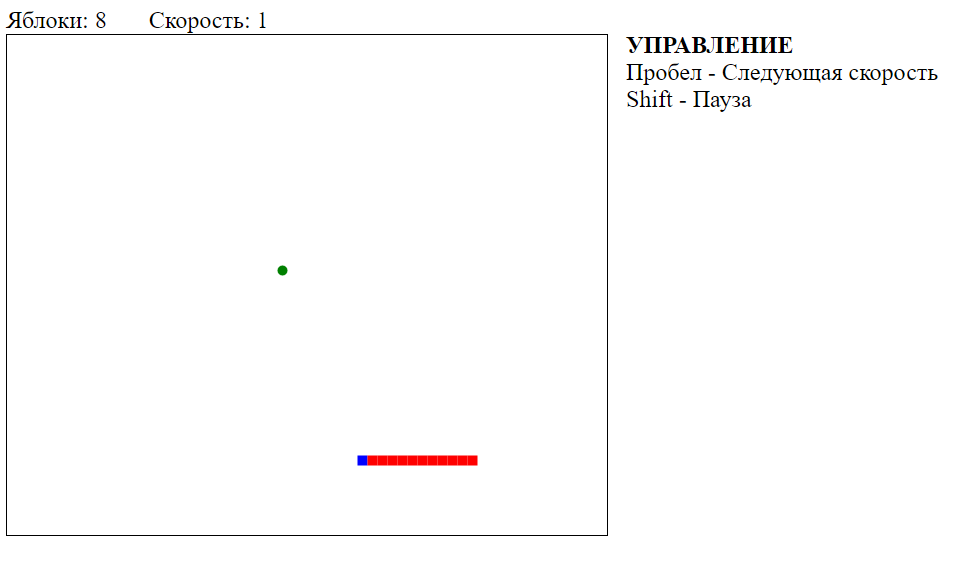
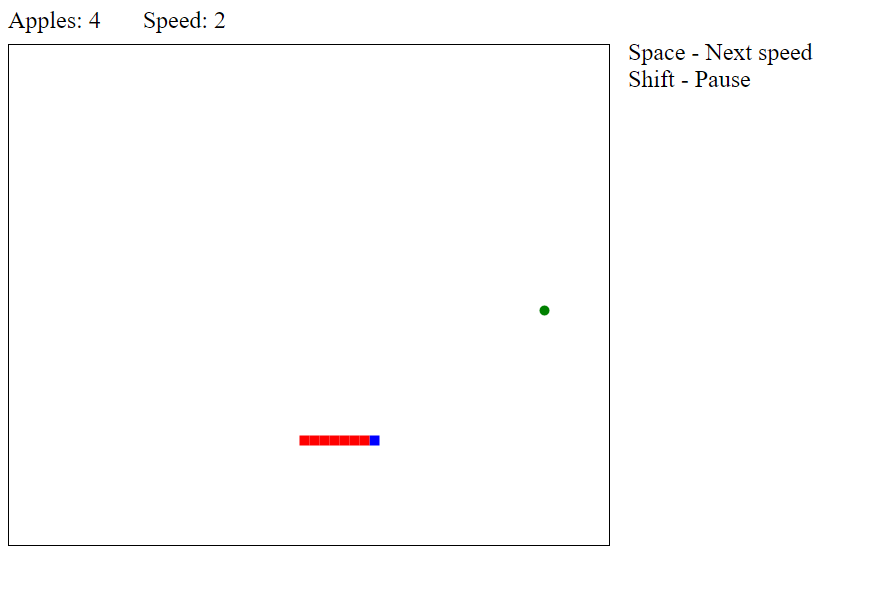
some fixes

diff --git a/js/snakes.GameEngine.js b/js/snakes.GameEngine.js
@@ -28,10 +28,10 @@ snakes.GameEngine = function (canvas, gameInfoElement, endGameCallback) {
 	};
 
 	var renderGameInfo = function () {
-		var text = "Яблоки: " + model.apples;
-		text += "&nbsp;&nbsp;&nbsp;&nbsp;&nbsp;&nbsp;&nbsp;Скорость: " + (speedIndex + 1);
+		var text = "Apples: " + model.apples;
+		text += "&nbsp;&nbsp;&nbsp;&nbsp;&nbsp;&nbsp;&nbsp;Speed: " + (speedIndex + 1);
 		if (isPause) {
-			text += "&nbsp;&nbsp;&nbsp;&nbsp;&nbsp;&nbsp;&nbsp;Пауза";
+			text += "&nbsp;&nbsp;&nbsp;&nbsp;&nbsp;&nbsp;&nbsp;Pause";
 		}
 		$(gameInfoElement).empty();
 		$(gameInfoElement).append("<span style='font-size:1.5em;'>" + text + "</span>");

diff --git a/index.html b/index.html
@@ -2,7 +2,7 @@
 <html>
 
 <head>
-	<title>Змейка</title>
+	<title>Snake</title>
 
 	<link rel="icon" type="image/x-icon" href="favicon.ico" />
 
@@ -21,9 +21,8 @@
 		<canvas id="gCanvas" width="600" height="500"></canvas>
 	</div>
 	<div class="management-panel">
-		<div style="font-weight:bold;">УПРАВЛЕНИЕ</div>
-		<div>Пробел - Следующая скорость</div>
-		<div>Shift - Пауза</div>
+		<div>Space - Next speed</div>
+		<div>Shift - Pause</div>
 	</div>
 
 	<!-- libs scripts -->

diff --git a/css/index.css b/css/index.css
@@ -2,6 +2,10 @@
 	border: 1px solid black;
 }
 
+#applesText {
+	margin-bottom: 10px;
+}
+
 .canvas-block {
 	float: left;
 }
@@ -9,6 +13,6 @@
 .management-panel {
 	float: left; 
 	font-size: 1.5em; 
-	margin-top: 25px;
+	margin-top: 32px;
 	margin-left: 20px;
 }
